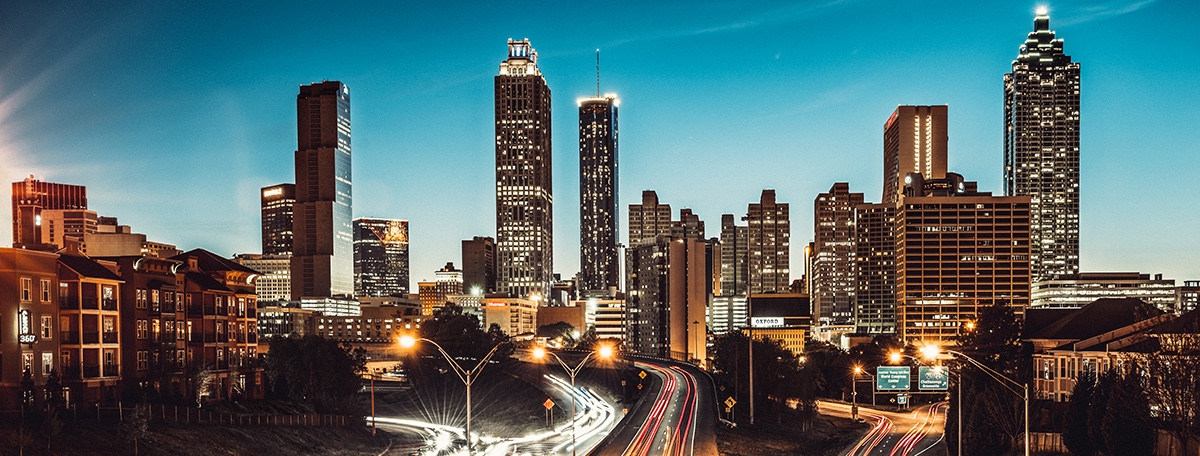
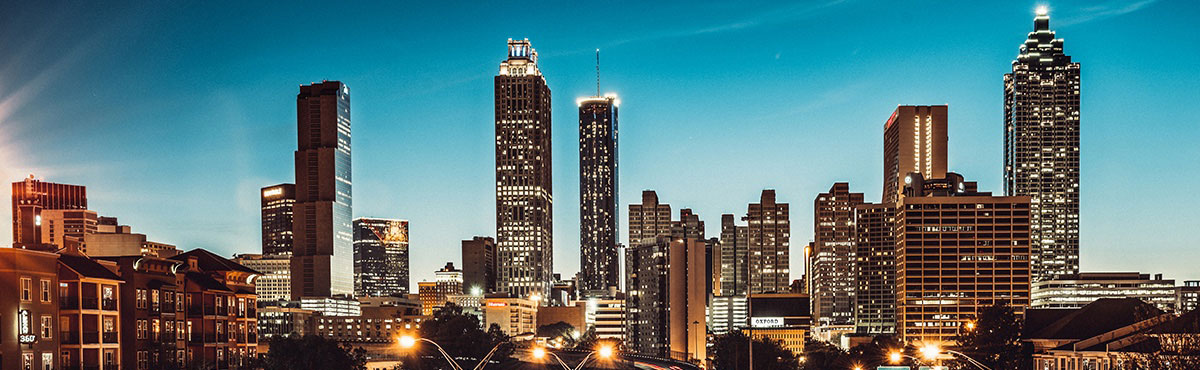
css and html updates

diff --git a/index.html b/index.html
@@ -8,24 +8,44 @@
   <meta http-equiv="X-UA-Compatible" content="IE=edge,chrome=1">
   <meta name="viewport" content="width=device-width,initial-scale=1">
     <title>Test Site</title>
-  <link rel="stylesheet" href="https://maxcdn.bootstrapcdn.com/bootstrap/4.0.0-beta/css/bootstrap.min.css" integrity="sha384-/Y6pD6FV/Vv2HJnA6t+vslU6fwYXjCFtcEpHbNJ0lyAFsXTsjBbfaDjzALeQsN6M" crossorigin="anonymous">
+<link rel="stylesheet" href="https://maxcdn.bootstrapcdn.com/bootstrap/3.3.7/css/bootstrap.min.css" integrity="sha384-BVYiiSIFeK1dGmJRAkycuHAHRg32OmUcww7on3RYdg4Va+PmSTsz/K68vbdEjh4u" crossorigin="anonymous">
+<link rel="stylesheet" href="//assets.dicepilot.com/techpro/css/techpro.min.css">
+    <link rel="stylesheet" href="//assets.dicepilot.com/techpro/css/jobs.css">
+    <link rel="stylesheet" href="//assets.dicepilot.com/techpro/css/location-trends.css">
+    <link rel="stylesheet" href="//assets.dicepilot.com/techpro/css/angular.min.css">
   </head>
   <style>
-    .head-conainer {
-      border-bottom-left-radius: 50% 30%;
-      border-bottom-right-radius: 50% 30%;
+
+  body {
+    background-color: #f7f7f7;
+  }
+
+  /*
+
+   ___Custom css____
+
+  */
+    .banner-container {
+      border-bottom-left-radius: 80% 30%;
+      border-bottom-right-radius: 80% 30%;
+      padding: 0;
+      position: fixed;
+      top: 0;
+      width: 100%;
+      height: auto;
+      z-index: 1;
       overflow: hidden;
     }
     .head-img {
       background-image: url('assets/Atlanta-full.jpg');
       width: 100%;
-      height: 456px;
+      height: 360px;
       background-position: center;
       background-size: cover;
       position: relative;
     }
 
-    .title-overlay {
+    .caption {
       background-color: rgba(0, 0, 0, .6);
       width: 100%;
       height: 150px;
@@ -36,76 +56,90 @@
       padding: 15px 0;
     }
 
-    .title-overlay h1 {
-      font-size: 1.2rem;
-      margin-bottom: 2px;
+    .caption h1 {
+      font-size: 25px;
+      margin: 2px 0;
     }
 
-    .subtext {
+    .caption h2 {
       font-weight: 200;
-      font-size: .8rem;
+      font-size: 18px;
       display: block;
       width: 75%;
       margin: 0 auto;
     }
-    .subtext-2 {
-      font-weight: 200;
-      font-size: .7rem;
-      display: block;
-      width: 75%;
-      margin: 0 auto;
+
+    .top-heading {
+      position: relative;
+      top: 250px;
+      background-color: #fff;
+      padding-top: 140px !important;
+      min-height: 600px !important;
     }
+
+/*
+
+ ___Media Queries____
+
+*/
 
     @media screen and (min-width: 768px) {
-      .title-overlay h1 {
-       font-size: 2.5rem;
+      .banner-container {
+        border-bottom-left-radius: 50% 30%;
+        border-bottom-right-radius: 50% 30%;
       }
 
-      .subtext {
-        font-size: 1rem;
+      .caption h1 {
+       font-size: 46px;
       }
 
-      .subtext-2 {
-        font-size: 1rem;
+      .caption h2 {
+      font-size: 20px;
       }
+
+      .top-heading {
+        position: relative;
+        top: 250px;
+        min-height: 400px !important;
+        background-color: #fff;
+        padding-top: 150px !important;
+      }
+
     }
 
     @media screen and (min-width: 992px) {
-      .title-overlay h1 {
-       font-size: 2.5rem;
+
+      .caption h2 {
+        font-size: 23px;
       }
 
-      .subtext {
-        font-size: 1.5rem;
-      }
-
-      .subtext-2 {
-        font-size: 1rem;
-      }
     }
   </style>
   <body>
-     <div class="container">
+    <div class="container-fluid">
     <div class="row">
-      <div class="col-sm-12">
-        <div class="head-conainer">
+        <div class="banner-container">
           <div class="head-img">
-            <div class="title-overlay">
+            <div class="caption">
               <h1>
                 Charlotte Tech Trends &amp; Insights
               </h1>
-              <div>
-                <span class="subtext">Dice is your go-to career hub for all things tech in Charlotte:</span>
-                <span class="subtext-2">In-Demand Skills • Salaries • Top Jobs • News • Who’s Hiring</span>
-              </div>
+                <h2>Dice is your go-to career hub for all things tech in Charlotte:</h2>
+                <h2>In-Demand Skills • Salaries • Top Jobs • News • Who’s Hiring</h2>
             </div>
           </div>
         </div>
+    </div>
+  </div>
+  <div class="container top-heading">
+    <div class="row">
+      <div class="col-xs-12">
+        <img class="img-responsive circle-section-img" src="//assets.dicepilot.com/techpro/img/location-trends/tech-skills-icon_2.svg" alt="Atlanta Tech Jobs">
+        <h2 class="horizontal-line-title"><span><strong>2,753</strong> Atlanta Tech Jobs</span></h2>
       </div>
     </div>
-   </div>
+  </div>
   </body>
   <script src="https://code.jquery.com/jquery-3.2.1.slim.min.js" integrity="sha384-KJ3o2DKtIkvYIK3UENzmM7KCkRr/rE9/Qpg6aAZGJwFDMVNA/GpGFF93hXpG5KkN" crossorigin="anonymous"></script>
-  <script src="https://cdnjs.cloudflare.com/ajax/libs/popper.js/1.11.0/umd/popper.min.js" integrity="sha384-b/U6ypiBEHpOf/4+1nzFpr53nxSS+GLCkfwBdFNTxtclqqenISfwAzpKaMNFNmj4" crossorigin="anonymous"></script>
-  <script src="https://maxcdn.bootstrapcdn.com/bootstrap/4.0.0-beta/js/bootstrap.min.js" integrity="sha384-h0AbiXch4ZDo7tp9hKZ4TsHbi047NrKGLO3SEJAg45jXxnGIfYzk4Si90RDIqNm1" crossorigin="anonymous"></script>
+  <script src="https://maxcdn.bootstrapcdn.com/bootstrap/3.3.7/js/bootstrap.min.js" integrity="sha384-Tc5IQib027qvyjSMfHjOMaLkfuWVxZxUPnCJA7l2mCWNIpG9mGCD8wGNIcPD7Txa" crossorigin="anonymous"></script>
 </html>
